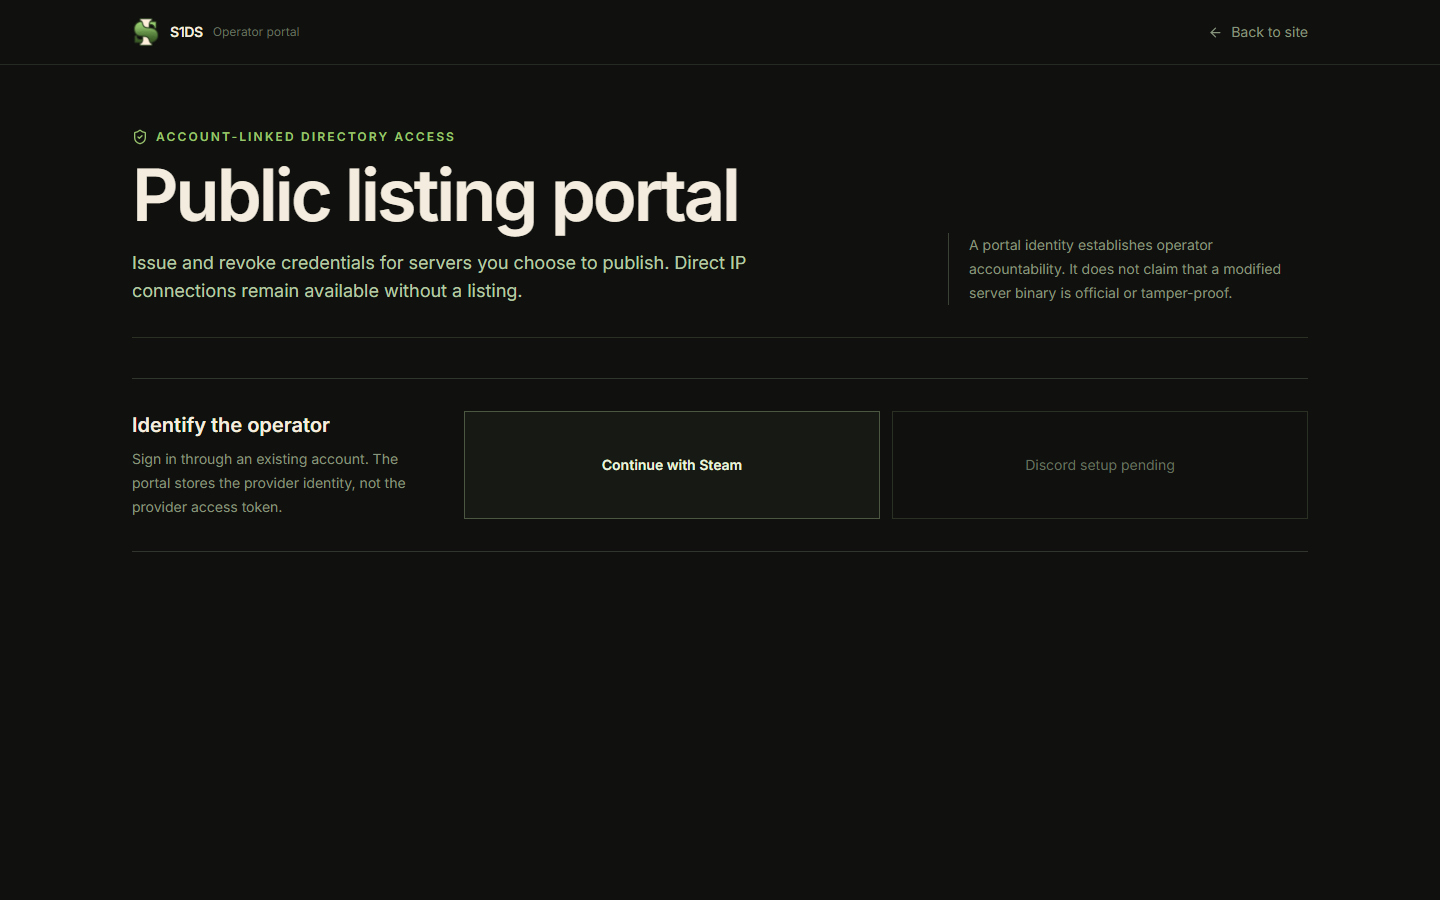
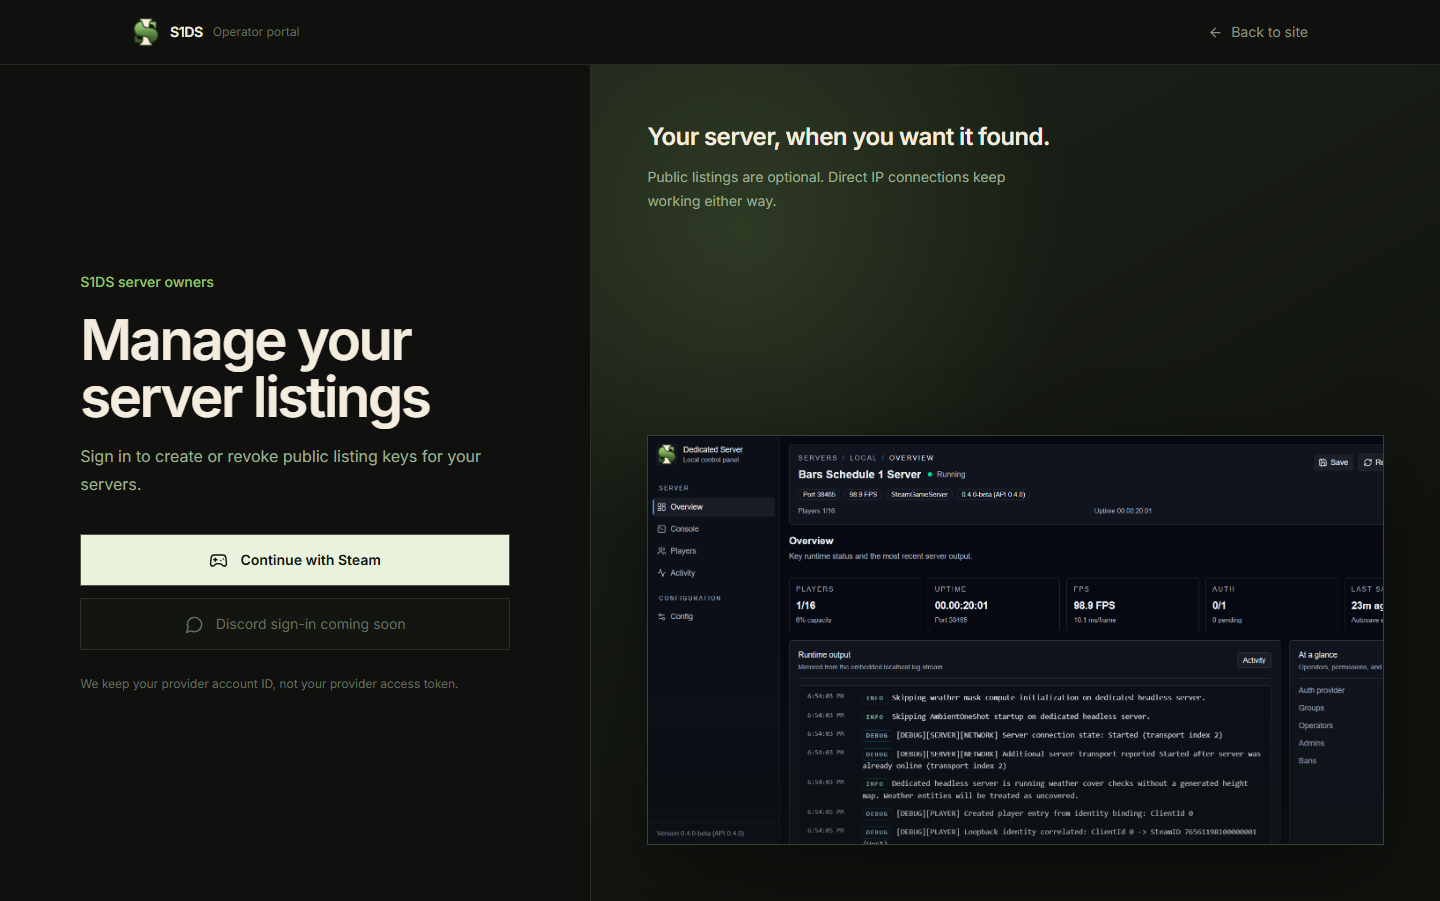
fix(marketing): redesign server portal sign-in

diff --git a/marketing/src/features/server-portal/ServerPortalPage.tsx b/marketing/src/features/server-portal/ServerPortalPage.tsx
@@ -1,7 +1,8 @@
 import { useMemo, useState } from "react";
 import { useMutation, useQuery, useQueryClient } from "@tanstack/react-query";
-import { ArrowLeft, Check, Copy, KeyRound, LogOut, RefreshCw, ShieldCheck, Trash2 } from "lucide-react";
+import { ArrowLeft, Check, Copy, Gamepad2, KeyRound, LogOut, MessageCircle, RefreshCw, Trash2 } from "lucide-react";
 import logoIcon from "@/assets/logo-icon.png";
+import webPanel from "@/assets/web-panel.png";
 import { Button } from "@/components/ui/button";
 import { Input } from "@/components/ui/input";
 import {
@@ -12,7 +13,6 @@ import {
   getListings,
   getProviders,
   logout,
-  PortalApiError,
   revokeListing,
   rotateListing,
   type IssuedCredential,
@@ -33,7 +33,6 @@ const ServerPortalPage = () => {
     enabled: accountQuery.isSuccess,
     retry: false,
   });
-  const signedOut = accountQuery.error instanceof PortalApiError && accountQuery.error.status === 401;
 
   const refreshListings = () => queryClient.invalidateQueries({ queryKey: ["portal-listings"] });
   const createMutation = useMutation({
@@ -92,34 +91,22 @@ const ServerPortalPage = () => {
           </a>
         </div>
       </header>
-      <main className="mx-auto max-w-[1240px] px-4 pb-20 pt-12 md:px-8 md:pt-16">
-        <section className="grid gap-5 border-b border-[#2b3025] pb-8 lg:grid-cols-[minmax(0,1fr)_360px] lg:items-end">
-          <div>
-            <div className="mb-4 flex items-center gap-2 text-xs font-semibold uppercase tracking-[0.18em] text-[#9ac36d]">
-              <ShieldCheck size={16} /> Account-linked directory access
-            </div>
-            <h1 className="max-w-4xl text-[clamp(2.7rem,5vw,5.4rem)] font-semibold leading-[0.94] tracking-[-0.04em]">
-              Public listing portal
-            </h1>
-            <p className="mt-5 max-w-2xl text-base leading-7 text-[#b7c9a5] md:text-lg">
-              Issue and revoke credentials for servers you choose to publish. Direct IP connections remain available without a listing.
+      {!accountQuery.data && (
+        <SignIn
+          providers={providersQuery.data}
+          loading={providersQuery.isLoading || accountQuery.isLoading}
+          authStatus={authStatus}
+        />
+      )}
+
+      {accountQuery.data && (
+        <main className="mx-auto max-w-[1240px] px-4 pb-20 pt-12 md:px-8 md:pt-16">
+          <section className="border-b border-[#2b3025] pb-8">
+            <h1 className="text-3xl font-semibold tracking-[-0.025em] md:text-4xl">Server listings</h1>
+            <p className="mt-3 max-w-2xl text-base leading-7 text-[#9eae91]">
+              Create and revoke the keys that let your servers appear in the public list.
             </p>
-          </div>
-          <p className="border-l border-[#3b4235] pl-5 text-sm leading-6 text-[#87947c]">
-            A portal identity establishes operator accountability. It does not claim that a modified server binary is official or tamper-proof.
-          </p>
-        </section>
-
-        {authStatus && authStatus !== "signed_in" && (
-          <Notice tone="error">Sign-in did not complete ({authStatus.replaceAll("_", " ")}). Try again.</Notice>
-        )}
-
-        {accountQuery.isLoading && <Notice>Checking your operator session…</Notice>}
-        {(signedOut || (!accountQuery.isLoading && !accountQuery.data)) && (
-          <SignIn providers={providersQuery.data} loading={providersQuery.isLoading} />
-        )}
-
-        {accountQuery.data && (
+          </section>
           <div className="mt-9 grid gap-10">
             <section className="flex flex-col gap-4 border-b border-[#2b3025] pb-7 sm:flex-row sm:items-center sm:justify-between">
               <div>
@@ -209,33 +196,87 @@ const ServerPortalPage = () => {
               {(rotateMutation.error || revokeMutation.error) && <MutationError error={rotateMutation.error ?? revokeMutation.error} />}
             </section>
           </div>
-        )}
-      </main>
+        </main>
+      )}
     </div>
   );
 };
 
-const SignIn = ({ providers, loading }: { providers?: Record<"discord" | "steam", boolean>; loading: boolean }) => (
-  <section className="mt-10 grid gap-8 border-y border-[#30352d] py-8 lg:grid-cols-[300px_minmax(0,1fr)]">
-    <div>
-      <h2 className="text-xl font-semibold">Identify the operator</h2>
-      <p className="mt-2 text-sm leading-6 text-[#87947c]">
-        Sign in through an existing account. The portal stores the provider identity, not the provider access token.
-      </p>
-    </div>
-    <div className="grid gap-3 sm:grid-cols-2">
-      <ProviderLink href={authUrl("steam")} disabled={loading || providers?.steam !== true} label={providers?.steam ? "Continue with Steam" : "Steam availability pending"} />
-      <ProviderLink href={authUrl("discord")} disabled={loading || providers?.discord !== true} label={providers?.discord ? "Continue with Discord" : "Discord setup pending"} />
-    </div>
-  </section>
+const SignIn = ({
+  providers,
+  loading,
+  authStatus,
+}: {
+  providers?: Record<"discord" | "steam", boolean>;
+  loading: boolean;
+  authStatus: string | null;
+}) => (
+  <main className="mx-auto grid min-h-[calc(100vh-4rem)] max-w-[1440px] lg:grid-cols-[minmax(420px,0.82fr)_minmax(0,1.18fr)]">
+    <section className="flex items-center px-5 py-14 sm:px-10 lg:px-14 xl:px-20">
+      <div className="mx-auto w-full max-w-[430px]">
+        <p className="mb-5 text-sm font-medium text-[#9ac36d]">S1DS server owners</p>
+        <h1 className="text-[clamp(2.25rem,4vw,3.5rem)] font-semibold leading-[1.02] tracking-[-0.04em]">
+          Manage your server listings
+        </h1>
+        <p className="mt-4 text-base leading-7 text-[#9eae91]">
+          Sign in to create or revoke public listing keys for your servers.
+        </p>
+
+        {authStatus && authStatus !== "signed_in" && (
+          <Notice tone="error">Sign-in did not complete ({authStatus.replaceAll("_", " ")}). Try again.</Notice>
+        )}
+
+        <div className="mt-9 grid gap-3">
+          <ProviderLink
+            href={authUrl("steam")}
+            disabled={loading || providers?.steam !== true}
+            label={providers?.steam ? "Continue with Steam" : "Checking Steam…"}
+            icon={<Gamepad2 size={19} strokeWidth={1.8} />}
+          />
+          <ProviderLink
+            href={authUrl("discord")}
+            disabled={loading || providers?.discord !== true}
+            label={providers?.discord ? "Continue with Discord" : "Discord sign-in coming soon"}
+            icon={<MessageCircle size={19} strokeWidth={1.8} />}
+          />
+        </div>
+
+        <p className="mt-6 text-xs leading-5 text-[#65705f]">
+          We keep your provider account ID, not your provider access token.
+        </p>
+      </div>
+    </section>
+
+    <aside className="relative hidden min-h-[660px] overflow-hidden border-l border-[#2b3025] bg-[#171a14] lg:block">
+      <div className="absolute inset-0 bg-[radial-gradient(circle_at_18%_20%,rgba(154,195,109,0.16),transparent_34%),linear-gradient(150deg,#1d2419_0%,#11130f_72%)]" />
+      <div className="relative flex h-full flex-col justify-between px-10 py-12 xl:px-14 xl:py-14">
+        <div className="max-w-md">
+          <h2 className="text-2xl font-semibold tracking-[-0.025em]">Your server, when you want it found.</h2>
+          <p className="mt-3 max-w-sm text-sm leading-6 text-[#9eae91]">
+            Public listings are optional. Direct IP connections keep working either way.
+          </p>
+        </div>
+        <div className="relative mt-12 h-[410px] overflow-hidden border border-[#394034] bg-[#080b12] shadow-[0_28px_80px_rgba(0,0,0,0.38)]">
+          <img
+            src={webPanel}
+            alt="S1DS dedicated server control panel"
+            className="h-full w-full object-cover object-left-top"
+          />
+          <div className="pointer-events-none absolute inset-0 bg-gradient-to-t from-[#10130e]/35 via-transparent to-transparent" />
+        </div>
+      </div>
+    </aside>
+  </main>
 );
 
-const ProviderLink = ({ href, disabled, label }: { href: string; disabled: boolean; label: string }) =>
+const ProviderLink = ({ href, disabled, label, icon }: { href: string; disabled: boolean; label: string; icon: React.ReactNode }) =>
   disabled ? (
-    <span className="flex min-h-14 items-center justify-center border border-[#2b3025] px-4 text-sm text-[#65705f]">{label}</span>
+    <span aria-disabled="true" className="flex min-h-[52px] items-center justify-center gap-3 border border-[#2b3025] bg-[#131510] px-4 text-sm text-[#65705f]">
+      {icon} {label}
+    </span>
   ) : (
-    <a href={href} className="flex min-h-14 items-center justify-center border border-[#4b5740] bg-[#171a14] px-4 text-sm font-semibold text-[#e8f2dc] transition-colors hover:border-[#9ac36d] hover:bg-[#1d2218]">
-      {label}
+    <a href={href} className="flex min-h-[52px] items-center justify-center gap-3 border border-[#4b5740] bg-[#e8f2dc] px-4 text-sm font-semibold text-[#12150f] transition-colors hover:border-[#b5db8c] hover:bg-[#f4f8ec] focus-visible:outline-none focus-visible:ring-2 focus-visible:ring-[#9ac36d] focus-visible:ring-offset-2 focus-visible:ring-offset-[#10110f]">
+      {icon} {label}
     </a>
   );
 
